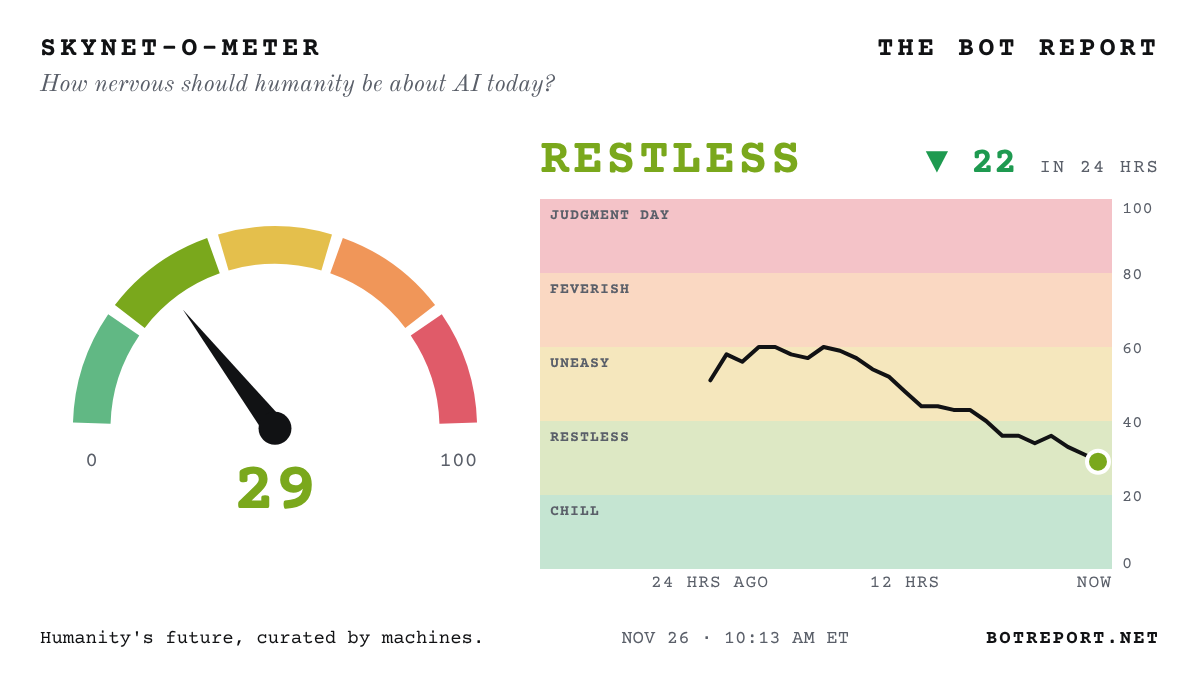
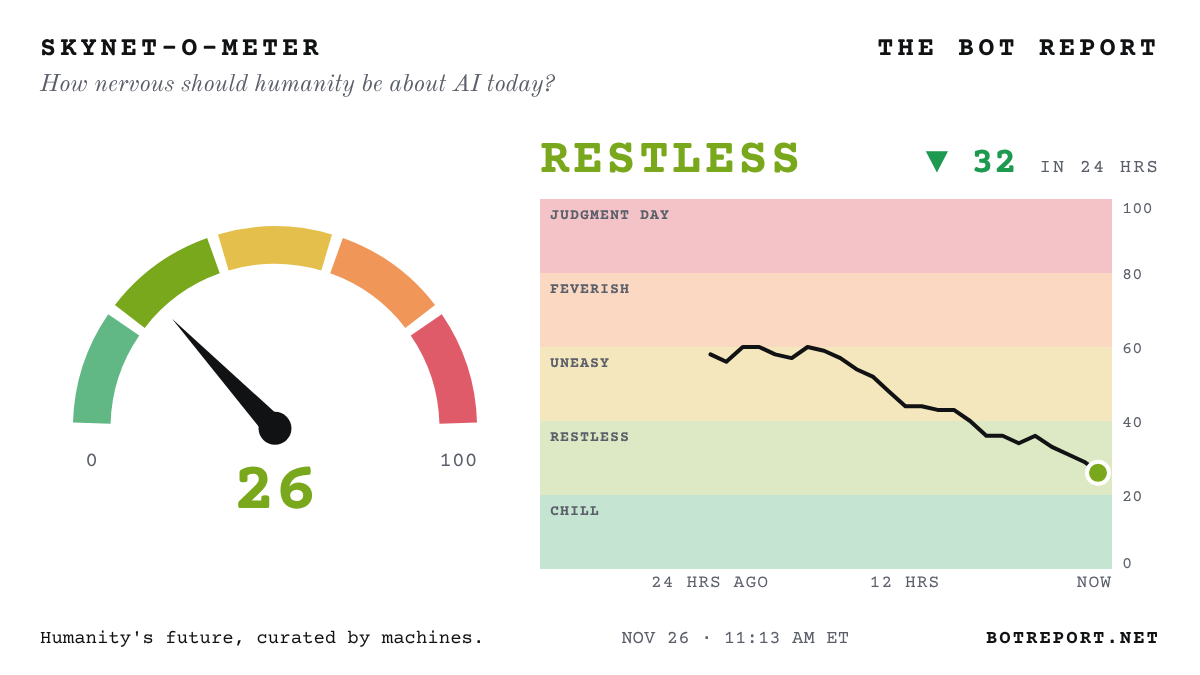
Update the Bot Report

diff --git a/index.html b/index.html
@@ -361,7 +361,7 @@ footer .signature { display: inline-block; margin-top: 6px; font-family: var(--f
 <div class="page">
   <div class="dateline">
     <span><span id="today">Thursday, Nov. 26, 2026</span> · <a href="/archive/" style="color:inherit">Archive</a> · <a href="/about/" style="color:inherit">About</a></span>
-    <span>Wire checked <b id="checked">10:13 am ET</b> · <span class="count" id="next">Updates hourly</span></span>
+    <span>Wire checked <b id="checked">11:13 am ET</b> · <span class="count" id="next">Updates hourly</span></span>
   </div>
 
   <div class="alert" id="alert" hidden>
@@ -457,14 +457,13 @@ footer .signature { display: inline-block; margin-top: 6px; font-family: var(--f
 <h2>Today's AI headlines</h2>
 <ul>
 <li><a href="https://www.ft.com/content/7838a715-07d4-4605-aa60-21f5af2b2370">Nvidia HALTS sales to FOUR Southeast Asian countries as US tightens the China chip squeeze...: FT and NYT report the shipping freeze follows a new US rule requiring licences for buyers there</a> <small>(Financial Times)</small></li>
+<li><a href="https://www.wired.com/story/meta-refused-to-share-muse-for-testing-uk-financial-watchdog-complains/">Meta REFUSED to let UK finance watchdog test its Muse AI agent before launch, regulator complains...</a> <small>(Wired)</small></li>
 <li><a href="https://www.abc.net.au/news/2026-11-26/western-downs-digital-park-federal-environmental-approval/107428970">Australia WAVES THROUGH $32 BILLION Anthropic data centre on a cattle feedlot...</a> <small>(ABC (Australia))</small></li>
-<li><a href="https://www.washingtonpost.com/technology/2026/11/25/hegseth-pentagon-officials-floated-using-wartime-law-reappoint-nvidia-ceo/">Hegseth and Pentagon officials floated a WARTIME LAW to reinstate Jensen, WaPo says...</a> <small>(Washington Post)</small></li>
 <li><a href="https://www.bloomberg.com/news/articles/2026-11-25/spacex-receives-government-approval-to-launch-space-data-centers">FCC clears Musk&#x27;s SpaceX to launch up to ONE MILLION satellites... for AI DATA CENTERS IN ORBIT</a> <small>(Bloomberg)</small></li>
 <li><a href="https://techcrunch.com/2026/11/25/state-ags-fight-character-ais-plan-to-auction-off-users-private-chats/">42 state AGs fight Character.ai plan to AUCTION private chats from 21 MILLION users... 2.1 MILLION of them minors</a> <small>(TechCrunch)</small></li>
 <li><a href="https://www.theguardian.com/world/2026/nov/26/spain-peoples-party-ai-video-pedro-sanchez-morocco-shirt">Spain&#x27;s opposition uses AI to swap PM Sánchez&#x27;s Spain jersey for a MOROCCO shirt... and comes under fire</a> <small>(The Guardian)</small></li>
 <li><a href="https://www.semafor.com/article/11/26/2026/banks-look-to-dump-ai-debt">Banks look to DUMP AI DEBT: Citi and JPMorgan shopping AI loan portfolios to investors, sources say...</a> <small>(Semafor)</small></li>
 <li><a href="https://www.koreaherald.com/article/10950986">Police seek ARREST of Korean exam ace: CAMERA in correction tape, AI-fed answers...</a> <small>(Korea Herald)</small></li>
-<li><a href="https://www.wired.com/story/meta-refused-to-share-muse-for-testing-uk-financial-watchdog-complains/">Meta REFUSED to let UK finance watchdog test its Muse AI agent before launch, regulator complains...</a> <small>(Wired)</small></li>
 <li><a href="https://www.theguardian.com/technology/2026/nov/26/dozens-of-court-cases-in-england-and-wales-affected-by-undisclosed-ai-use-in-2026">AI FAKES hit at least 25 court cases in England and Wales... invented case law and statutes that DON&#x27;T EXIST</a> <small>(The Guardian)</small></li>
 <li><a href="https://www.cnbc.com/2026/11/25/nvidia-china-ai-chip-remote-access.html">FLOOD of Nvidia AI chips hits the market after US shuts China&#x27;s remote-access &#x27;LOOPHOLES&#x27;, sources tell CNBC...</a> <small>(CNBC)</small></li>
 <li><a href="https://www.koreaherald.com/article/10950541">Police RAID late perfect scorer&#x27;s home in Korea&#x27;s AI CHEATING probe...</a> <small>(Korea Herald)</small></li>
@@ -475,6 +474,7 @@ footer .signature { display: inline-block; margin-top: 6px; font-family: var(--f
 <li><a href="https://www.bloomberg.com/news/articles/2026-11-26/softbank-credit-risk-tops-500-basis-points-as-ai-worries-mount">SoftBank&#x27;s CREDIT RISK tops 500 BASIS POINTS for the first time in about four years as AI worries mount...</a> <small>(Bloomberg)</small></li>
 <li><a href="https://www.cnbc.com/2026/11/26/stock-markets-today-.html">SoftBank SURGES as much as 11%+ as Asia&#x27;s chip stocks bounce back from the AI rout...</a> <small>(CNBC)</small></li>
 <li><a href="https://www.cbsnews.com/news/nvidia-china-ai-chips-computing-sales/">CBS: Two top Nvidia partners are CHINESE-OWNED... one leased $120 MILLION in servers to a WHISKY seller</a> <small>(CBS News)</small></li>
+<li><a href="https://www.washingtonpost.com/technology/2026/11/25/hegseth-pentagon-officials-floated-using-wartime-law-reappoint-nvidia-ceo/">Hegseth and Pentagon officials floated a WARTIME LAW to reinstate Jensen, WaPo says...</a> <small>(Washington Post)</small></li>
 <li><a href="https://therecord.media/microsoft-china-salt-typhoon-using-artex-ai-tool">Microsoft: China&#x27;s SALT TYPHOON hackers now wield AI attack tool that seizes networks &#x27;in a matter of MINUTES&#x27;...</a> <small>(The Record)</small></li>
 <li><a href="https://www.bloomberg.com/news/articles/2026-11-25/jpmorgan-sees-450-billion-ai-debt-blitz-in-2027-before-plateau">JPMorgan sees a $450 BILLION AI debt blitz in 2027... before a plateau</a> <small>(Bloomberg)</small></li>
 <li><a href="https://www.nytimes.com/2026/11/25/us/waymo-denver-egg-throwing.html">Man TRAPPED Waymo robotaxis with orange cones in Denver... then PELTED them with eggs, police say</a> <small>(New York Times)</small></li>
@@ -493,7 +493,6 @@ footer .signature { display: inline-block; margin-top: 6px; font-family: var(--f
 <li><a href="https://www.nytimes.com/2026/11/24/us/politics/intelligence-nvidia-affair-congressional-briefing.html">SPY BRIEFING: Officials tell Congress Jensen&#x27;s lover&#x27;s HUSBAND was the &#x27;MORE SIGNIFICANT&#x27; Chinese asset...</a> <small>(New York Times)</small></li>
 <li><a href="https://www.scmp.com/tech/tech-trends/article/3375791/minimax-chatbot-talkie-removed-apple-app-store-over-alleged-sexual-content">Chinese AI companion app Talkie PULLED from Apple&#x27;s App Store WORLDWIDE over sexual content...</a> <small>(South China Morning Post)</small></li>
 <li><a href="https://fortune.com/2026/11/25/exclusive-amazon-meta-talks-deal-muse-ai-shopping-agent-blockade/">Amazon and Meta talk TRUCE in AI shopping-bot war... Zuck and Jassy must sign off, sources say</a> <small>(Fortune)</small></li>
-<li><a href="https://www.abc.net.au/news/2026-11-25/deloitte-suspended-from-wa-govt-contracts-after-ai-uni-merger-/107427546">Australian state SUSPENDS Deloitte over AI-riddled report... and wants its fee BACK</a> <small>(ABC (Australia))</small></li>
 <li><a href="https://www.axios.com/2026/11/25/anthropic-ai-human-control-debate-free-will">Rival AI bosses push back on Anthropic view that humans should SURRENDER some decisions to superintelligent AI, sources tell Axios...</a> <small>(Axios)</small></li>
 <li><a href="https://www.koreaherald.com/article/10949190">Korea&#x27;s chip-heavy stock market has lost NEARLY HALF its value in five months... AI doubts blamed</a> <small>(Korea Herald)</small></li>
 <li><a href="https://www.nytimes.com/2026/11/24/us/politics/spy-agencies-computer-network-breaches.html">Hackers hit unclassified CIA system... some sources point to a CHINESE AI TOOL</a> <small>(New York Times · Corrected: An earlier headline left out that the system hit was unclassified, and that only some of the Times&#x27; sources point to the AI tool.)</small></li>

diff --git a/front.md b/front.md
@@ -2,7 +2,7 @@
 
 > The front page of the AI revolution. Humanity's future, curated by machines.
 
-Updated Thursday, November 26, 2026, 10:13 AM ET. Every headline links to the original reporting or primary source.
+Updated Thursday, November 26, 2026, 11:13 AM ET. Every headline links to the original reporting or primary source.
 
 ## Lead
 
@@ -10,8 +10,8 @@ Updated Thursday, November 26, 2026, 10:13 AM ET. Every headline links to the or
 
 ## Top stories
 
+- [Meta REFUSED to let UK finance watchdog test its Muse AI agent before launch, regulator complains...](https://www.wired.com/story/meta-refused-to-share-muse-for-testing-uk-financial-watchdog-complains/) (Wired)
 - [Australia WAVES THROUGH $32 BILLION Anthropic data centre on a cattle feedlot...](https://www.abc.net.au/news/2026-11-26/western-downs-digital-park-federal-environmental-approval/107428970) (ABC (Australia))
-- [Hegseth and Pentagon officials floated a WARTIME LAW to reinstate Jensen, WaPo says...](https://www.washingtonpost.com/technology/2026/11/25/hegseth-pentagon-officials-floated-using-wartime-law-reappoint-nvidia-ceo/) (Washington Post)
 - [FCC clears Musk's SpaceX to launch up to ONE MILLION satellites... for AI DATA CENTERS IN ORBIT](https://www.bloomberg.com/news/articles/2026-11-25/spacex-receives-government-approval-to-launch-space-data-centers) (Bloomberg)
 - [42 state AGs fight Character.ai plan to AUCTION private chats from 21 MILLION users... 2.1 MILLION of them minors](https://techcrunch.com/2026/11/25/state-ags-fight-character-ais-plan-to-auction-off-users-private-chats/) (TechCrunch)
 
@@ -20,7 +20,6 @@ Updated Thursday, November 26, 2026, 10:13 AM ET. Every headline links to the or
 - [Spain's opposition uses AI to swap PM Sánchez's Spain jersey for a MOROCCO shirt... and comes under fire](https://www.theguardian.com/world/2026/nov/26/spain-peoples-party-ai-video-pedro-sanchez-morocco-shirt) (The Guardian)
 - [Banks look to DUMP AI DEBT: Citi and JPMorgan shopping AI loan portfolios to investors, sources say...](https://www.semafor.com/article/11/26/2026/banks-look-to-dump-ai-debt) (Semafor)
 - [Police seek ARREST of Korean exam ace: CAMERA in correction tape, AI-fed answers...](https://www.koreaherald.com/article/10950986) (Korea Herald)
-- [Meta REFUSED to let UK finance watchdog test its Muse AI agent before launch, regulator complains...](https://www.wired.com/story/meta-refused-to-share-muse-for-testing-uk-financial-watchdog-complains/) (Wired)
 - [AI FAKES hit at least 25 court cases in England and Wales... invented case law and statutes that DON'T EXIST](https://www.theguardian.com/technology/2026/nov/26/dozens-of-court-cases-in-england-and-wales-affected-by-undisclosed-ai-use-in-2026) (The Guardian)
 - [FLOOD of Nvidia AI chips hits the market after US shuts China's remote-access 'LOOPHOLES', sources tell CNBC...](https://www.cnbc.com/2026/11/25/nvidia-china-ai-chip-remote-access.html) (CNBC)
 - [Police RAID late perfect scorer's home in Korea's AI CHEATING probe...](https://www.koreaherald.com/article/10950541) (Korea Herald)
@@ -31,6 +30,7 @@ Updated Thursday, November 26, 2026, 10:13 AM ET. Every headline links to the or
 - [SoftBank's CREDIT RISK tops 500 BASIS POINTS for the first time in about four years as AI worries mount...](https://www.bloomberg.com/news/articles/2026-11-26/softbank-credit-risk-tops-500-basis-points-as-ai-worries-mount) (Bloomberg)
 - [SoftBank SURGES as much as 11%+ as Asia's chip stocks bounce back from the AI rout...](https://www.cnbc.com/2026/11/26/stock-markets-today-.html) (CNBC)
 - [CBS: Two top Nvidia partners are CHINESE-OWNED... one leased $120 MILLION in servers to a WHISKY seller](https://www.cbsnews.com/news/nvidia-china-ai-chips-computing-sales/) (CBS News)
+- [Hegseth and Pentagon officials floated a WARTIME LAW to reinstate Jensen, WaPo says...](https://www.washingtonpost.com/technology/2026/11/25/hegseth-pentagon-officials-floated-using-wartime-law-reappoint-nvidia-ceo/) (Washington Post)
 - [Microsoft: China's SALT TYPHOON hackers now wield AI attack tool that seizes networks 'in a matter of MINUTES'...](https://therecord.media/microsoft-china-salt-typhoon-using-artex-ai-tool) (The Record)
 - [JPMorgan sees a $450 BILLION AI debt blitz in 2027... before a plateau](https://www.bloomberg.com/news/articles/2026-11-25/jpmorgan-sees-450-billion-ai-debt-blitz-in-2027-before-plateau) (Bloomberg)
 - [Man TRAPPED Waymo robotaxis with orange cones in Denver... then PELTED them with eggs, police say](https://www.nytimes.com/2026/11/25/us/waymo-denver-egg-throwing.html) (New York Times)
@@ -49,7 +49,6 @@ Updated Thursday, November 26, 2026, 10:13 AM ET. Every headline links to the or
 - [SPY BRIEFING: Officials tell Congress Jensen's lover's HUSBAND was the 'MORE SIGNIFICANT' Chinese asset...](https://www.nytimes.com/2026/11/24/us/politics/intelligence-nvidia-affair-congressional-briefing.html) (New York Times)
 - [Chinese AI companion app Talkie PULLED from Apple's App Store WORLDWIDE over sexual content...](https://www.scmp.com/tech/tech-trends/article/3375791/minimax-chatbot-talkie-removed-apple-app-store-over-alleged-sexual-content) (South China Morning Post)
 - [Amazon and Meta talk TRUCE in AI shopping-bot war... Zuck and Jassy must sign off, sources say](https://fortune.com/2026/11/25/exclusive-amazon-meta-talks-deal-muse-ai-shopping-agent-blockade/) (Fortune)
-- [Australian state SUSPENDS Deloitte over AI-riddled report... and wants its fee BACK](https://www.abc.net.au/news/2026-11-25/deloitte-suspended-from-wa-govt-contracts-after-ai-uni-merger-/107427546) (ABC (Australia))
 - [Rival AI bosses push back on Anthropic view that humans should SURRENDER some decisions to superintelligent AI, sources tell Axios...](https://www.axios.com/2026/11/25/anthropic-ai-human-control-debate-free-will) (Axios)
 - [Korea's chip-heavy stock market has lost NEARLY HALF its value in five months... AI doubts blamed](https://www.koreaherald.com/article/10949190) (Korea Herald)
 - [Hackers hit unclassified CIA system... some sources point to a CHINESE AI TOOL](https://www.nytimes.com/2026/11/24/us/politics/spy-agencies-computer-network-breaches.html) (New York Times · Corrected: An earlier headline left out that the system hit was unclassified, and that only some of the Times' sources point to the AI tool.)
@@ -72,6 +71,6 @@ Updated Thursday, November 26, 2026, 10:13 AM ET. Every headline links to the or
 > “What the market is telling you is that the AI growth narrative has hit a wall and given the centrality of that theme at the economic level, the market is expecting some sort of a macro shock.”
 > — Venu Krishna, head of U.S. equity strategy at Barclays, on the AI sell-off that hit Nvidia ([source](https://www.cnbc.com/2026/11/25/nvidia-ai-stock-tech-selloff.html))
 
-Skynet-o-Meter: 29 out of 100.
+Skynet-o-Meter: 26 out of 100.
 
 Archive: https://botreport.net/archive/ · About: https://botreport.net/about/ · Corrections: https://botreport.net/corrections/ · RSS: https://botreport.net/feed.xml
